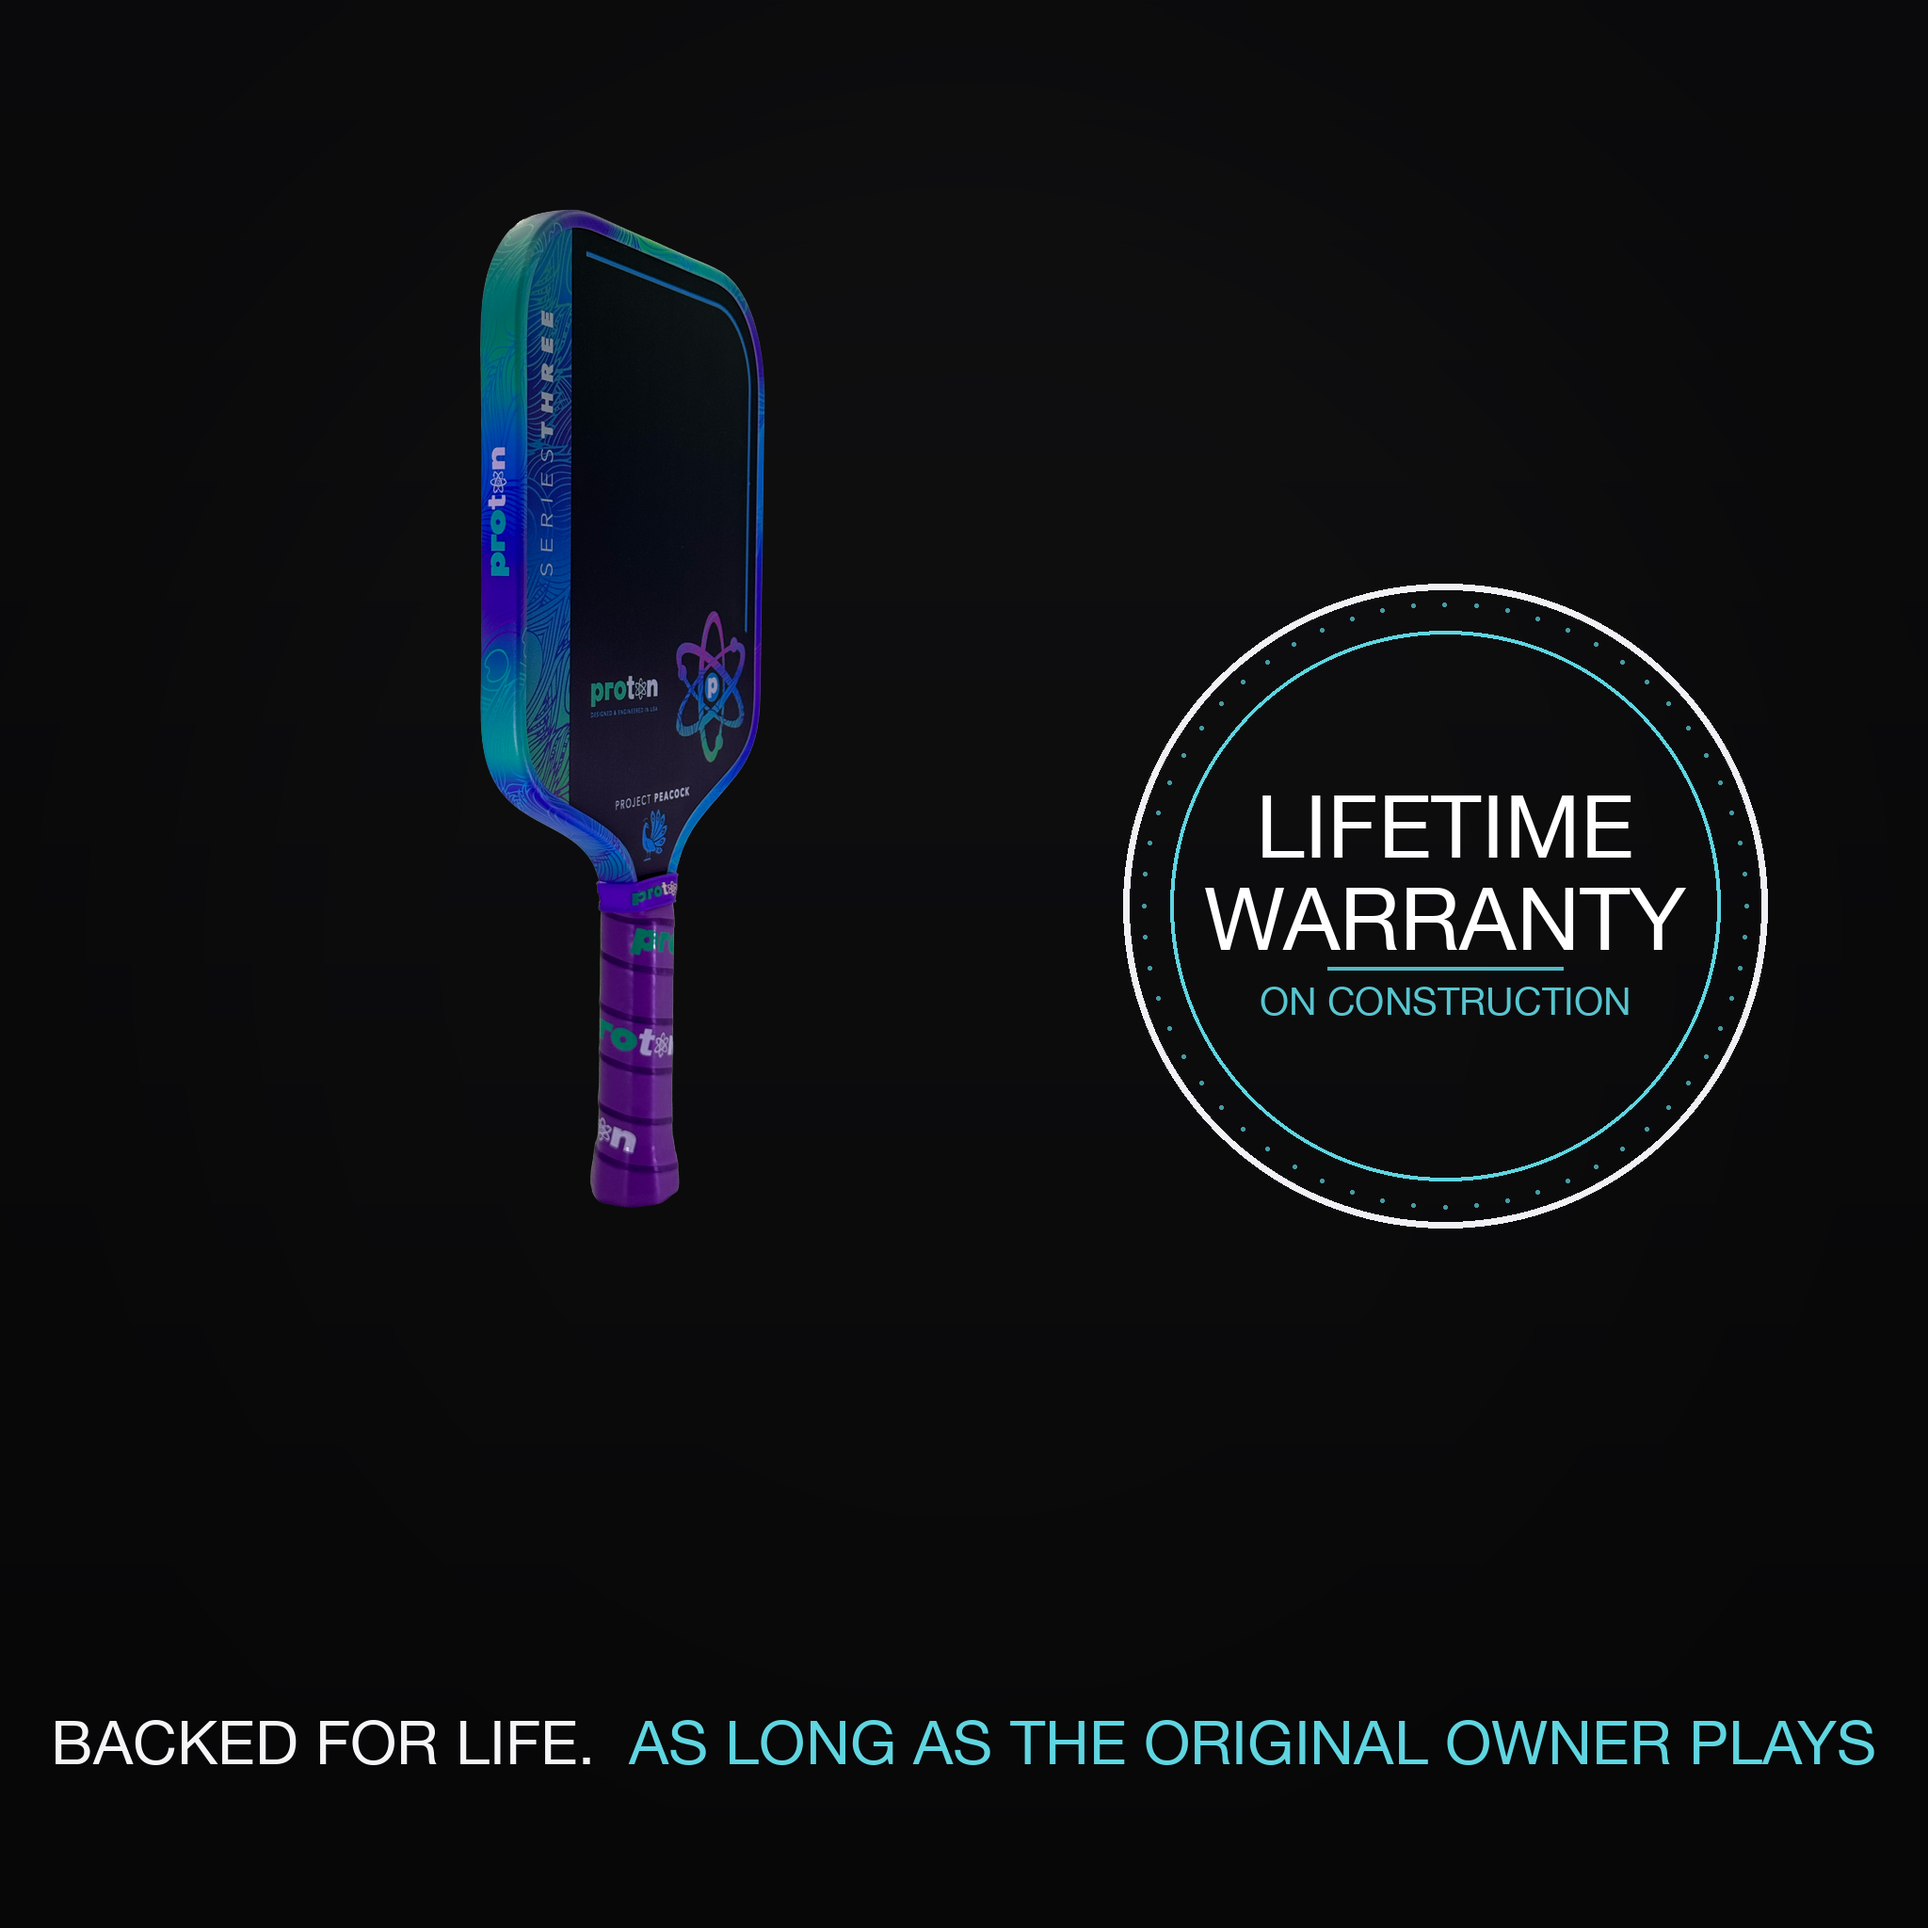
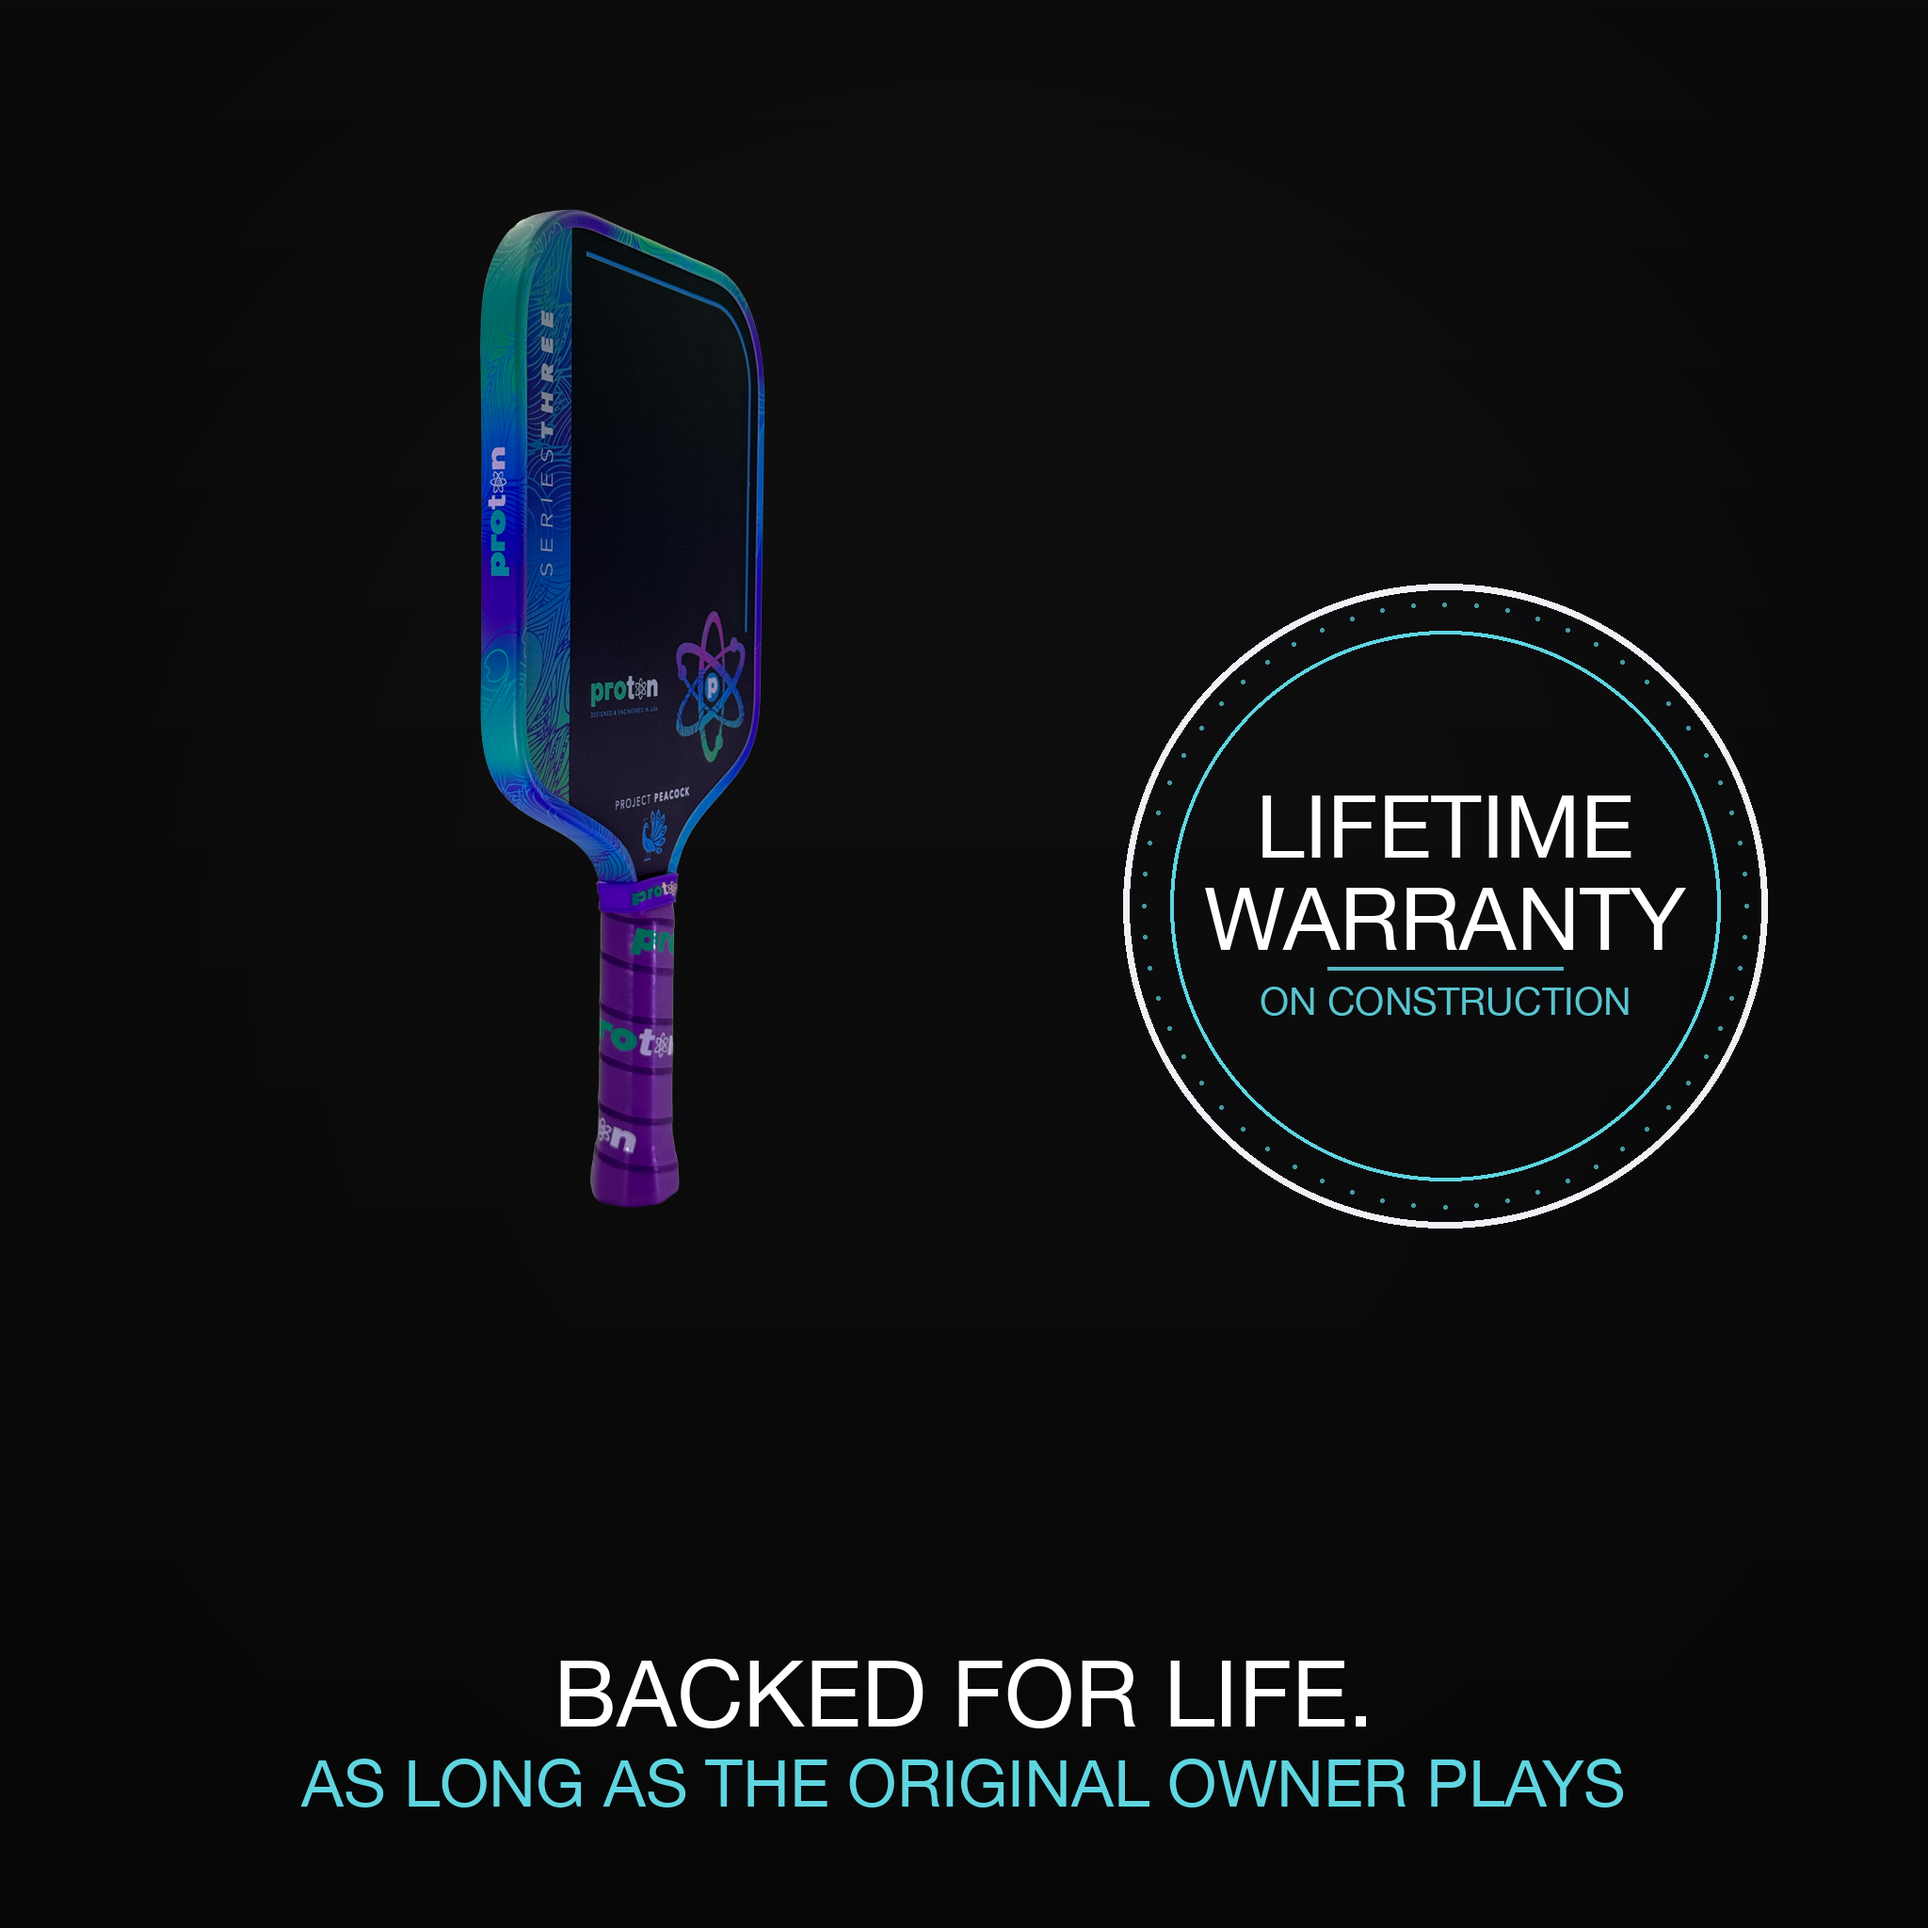
fix(peacock-pdp): warranty image band + mobile feature ordering
- Warranty image: was one small inline line; now matches the other 8 images —
  big white "BACKED FOR LIFE." headline over big cyan "AS LONG AS THE ORIGINAL
  OWNER PLAYS" subtitle (seal graphic unchanged).
- Mobile: feature section (AeroGrade block + all feature rows) now renders the
  headline/copy ABOVE the image instead of image-first (order on .aero .img and
  .feature .fimg/.ftext).

Changed region(s): [[0.0312, 0.8438, 0.9688, 0.9375]]

diff --git a/index.html b/index.html
@@ -200,7 +200,7 @@ section{ padding-block:clamp(70px,9vw,132px); }
 .aero h2{ font-family:var(--ff-display); font-weight:500; font-size:clamp(34px,4.2vw,56px); line-height:1.02; letter-spacing:-0.025em; margin:18px 0 26px; }
 .aero p{ font-size:clamp(16px,1.45vw,19px); line-height:1.65; color:var(--bone-2); }
 .aero p .em{ color:var(--bone); font-weight:500; }
-@media(max-width:860px){ .aero{ grid-template-columns:1fr; gap:26px; } }
+@media(max-width:860px){ .aero{ grid-template-columns:1fr; gap:22px; } .aero .img{ order:2; } }
 
 /* Feature rows */
 .feat-head{ max-width:1180px; margin:0 auto clamp(40px,5vw,72px); }
@@ -218,7 +218,8 @@ section{ padding-block:clamp(70px,9vw,132px); }
 .feature .ftext p{ font-size:clamp(18px,1.7vw,23px); line-height:1.55; color:var(--bone); font-weight:400; letter-spacing:-0.008em; }
 @media(max-width:820px){
   .feature{ grid-template-columns:1fr; gap:22px; }
-  .feature.flip .ftext{ order:0; }
+  .feature .ftext{ order:1; }
+  .feature .fimg{ order:2; }
 }
 
 .inline-cta{ display:flex; justify-content:center; margin-top:clamp(48px,6vw,84px); }
